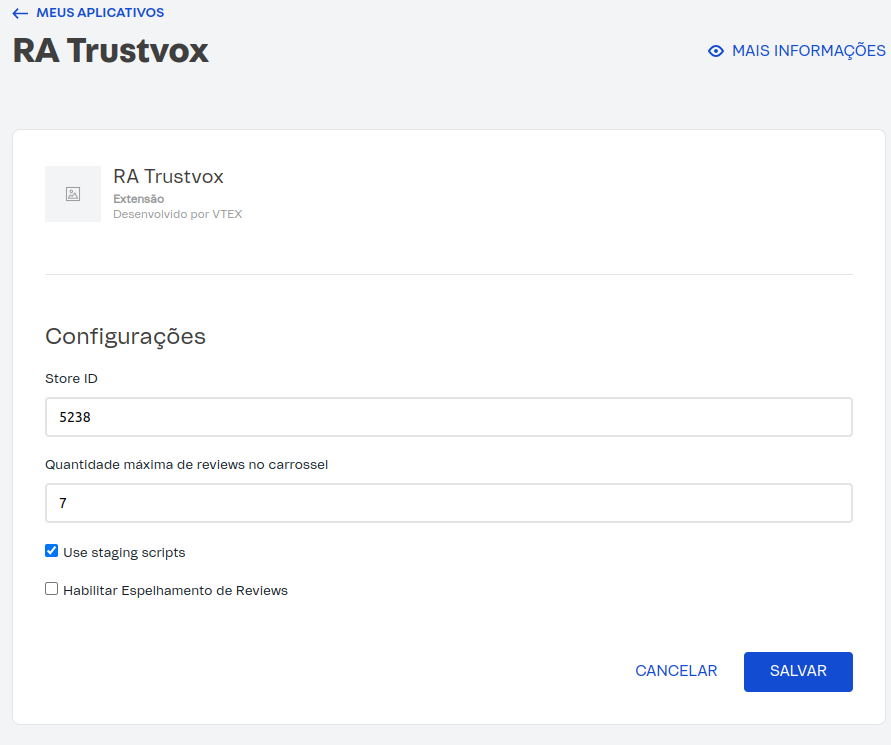
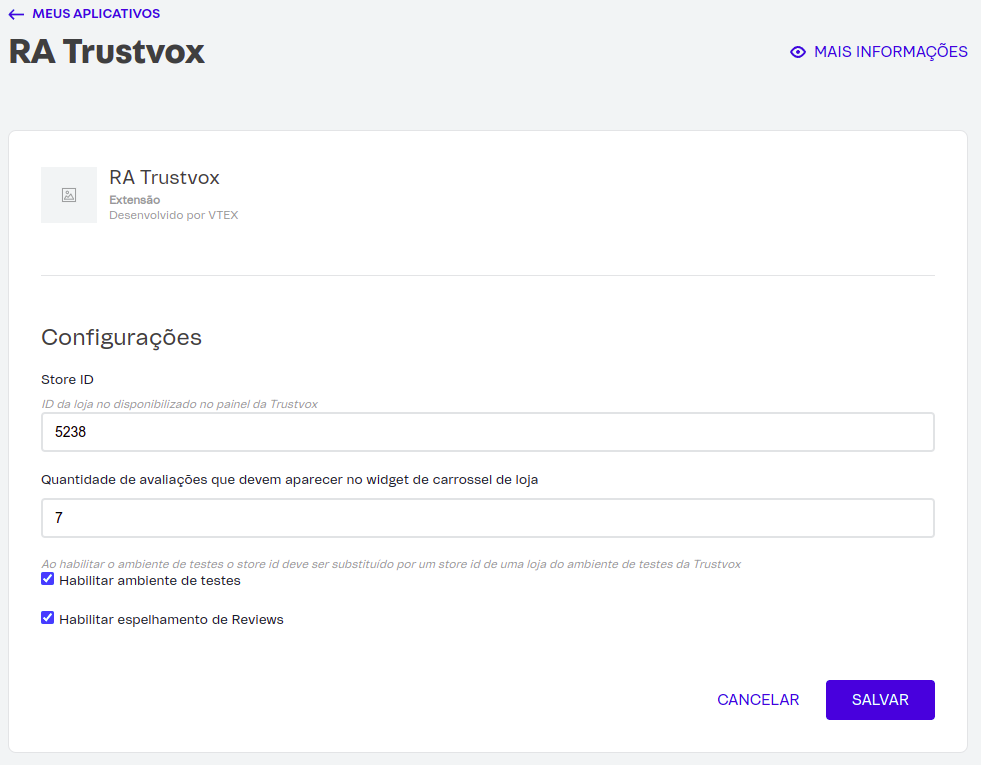
changes made as per CR

diff --git a/react/services/ScriptHandler.jsx b/react/services/ScriptHandler.jsx
@@ -18,9 +18,6 @@ export const setProduct = ({ productId, productName, imageUrl, productReference,
   if (sellers)
     window._trustvox.push(['_sellers', sellers])
 
-  if (productReference && productReference.length)
-    window._trustvox.push(['_productGroup', productReference])
-
   if (department_id)
     window._trustvox.push(['_productExtraAttributes', { "department_id": department_id }]);
 

diff --git a/docs/README_EN.md b/docs/README_EN.md
@@ -83,6 +83,16 @@ Replace {account} with your VTEX account.
 
 Upload the changes to your store, after this, you will be able to add the RA Trustvox app blocks.
 
+## Enable product grouping
+
+- Find and select the Trustvox RA app. The application configuration screen will be displayed as shown below:
+
+![Product group](/docs/assets/product-group.png)
+
+- Select the Enable Review Mirroring checkbox to enable product grouping.
+
+- Click the Save button to apply the changes.
+
 ## Block Configuration
 
 This app provides replacements for the [Product Reviews](https://github.com/vtex-apps/product-review-interfaces/tree/master/example) blocks and also provides other blocks.

diff --git a/README.md b/README.md
@@ -89,7 +89,7 @@ Suba as alterações para sua loja, após isso, você irá conseguir adicionar o
 
 - Localize e selecione o aplicativo RA Trustvox. A tela de configuração do aplicativo será exibida como mostrado abaixo:
 
-![product-rating-inline block](/docs/assets/product-group.png)
+![Product group](/docs/assets/product-group.png)
 
 - Marque a caixa de seleção Habilitar Espelhamento de Reviews para ativar o agrupamento de produtos.
 
